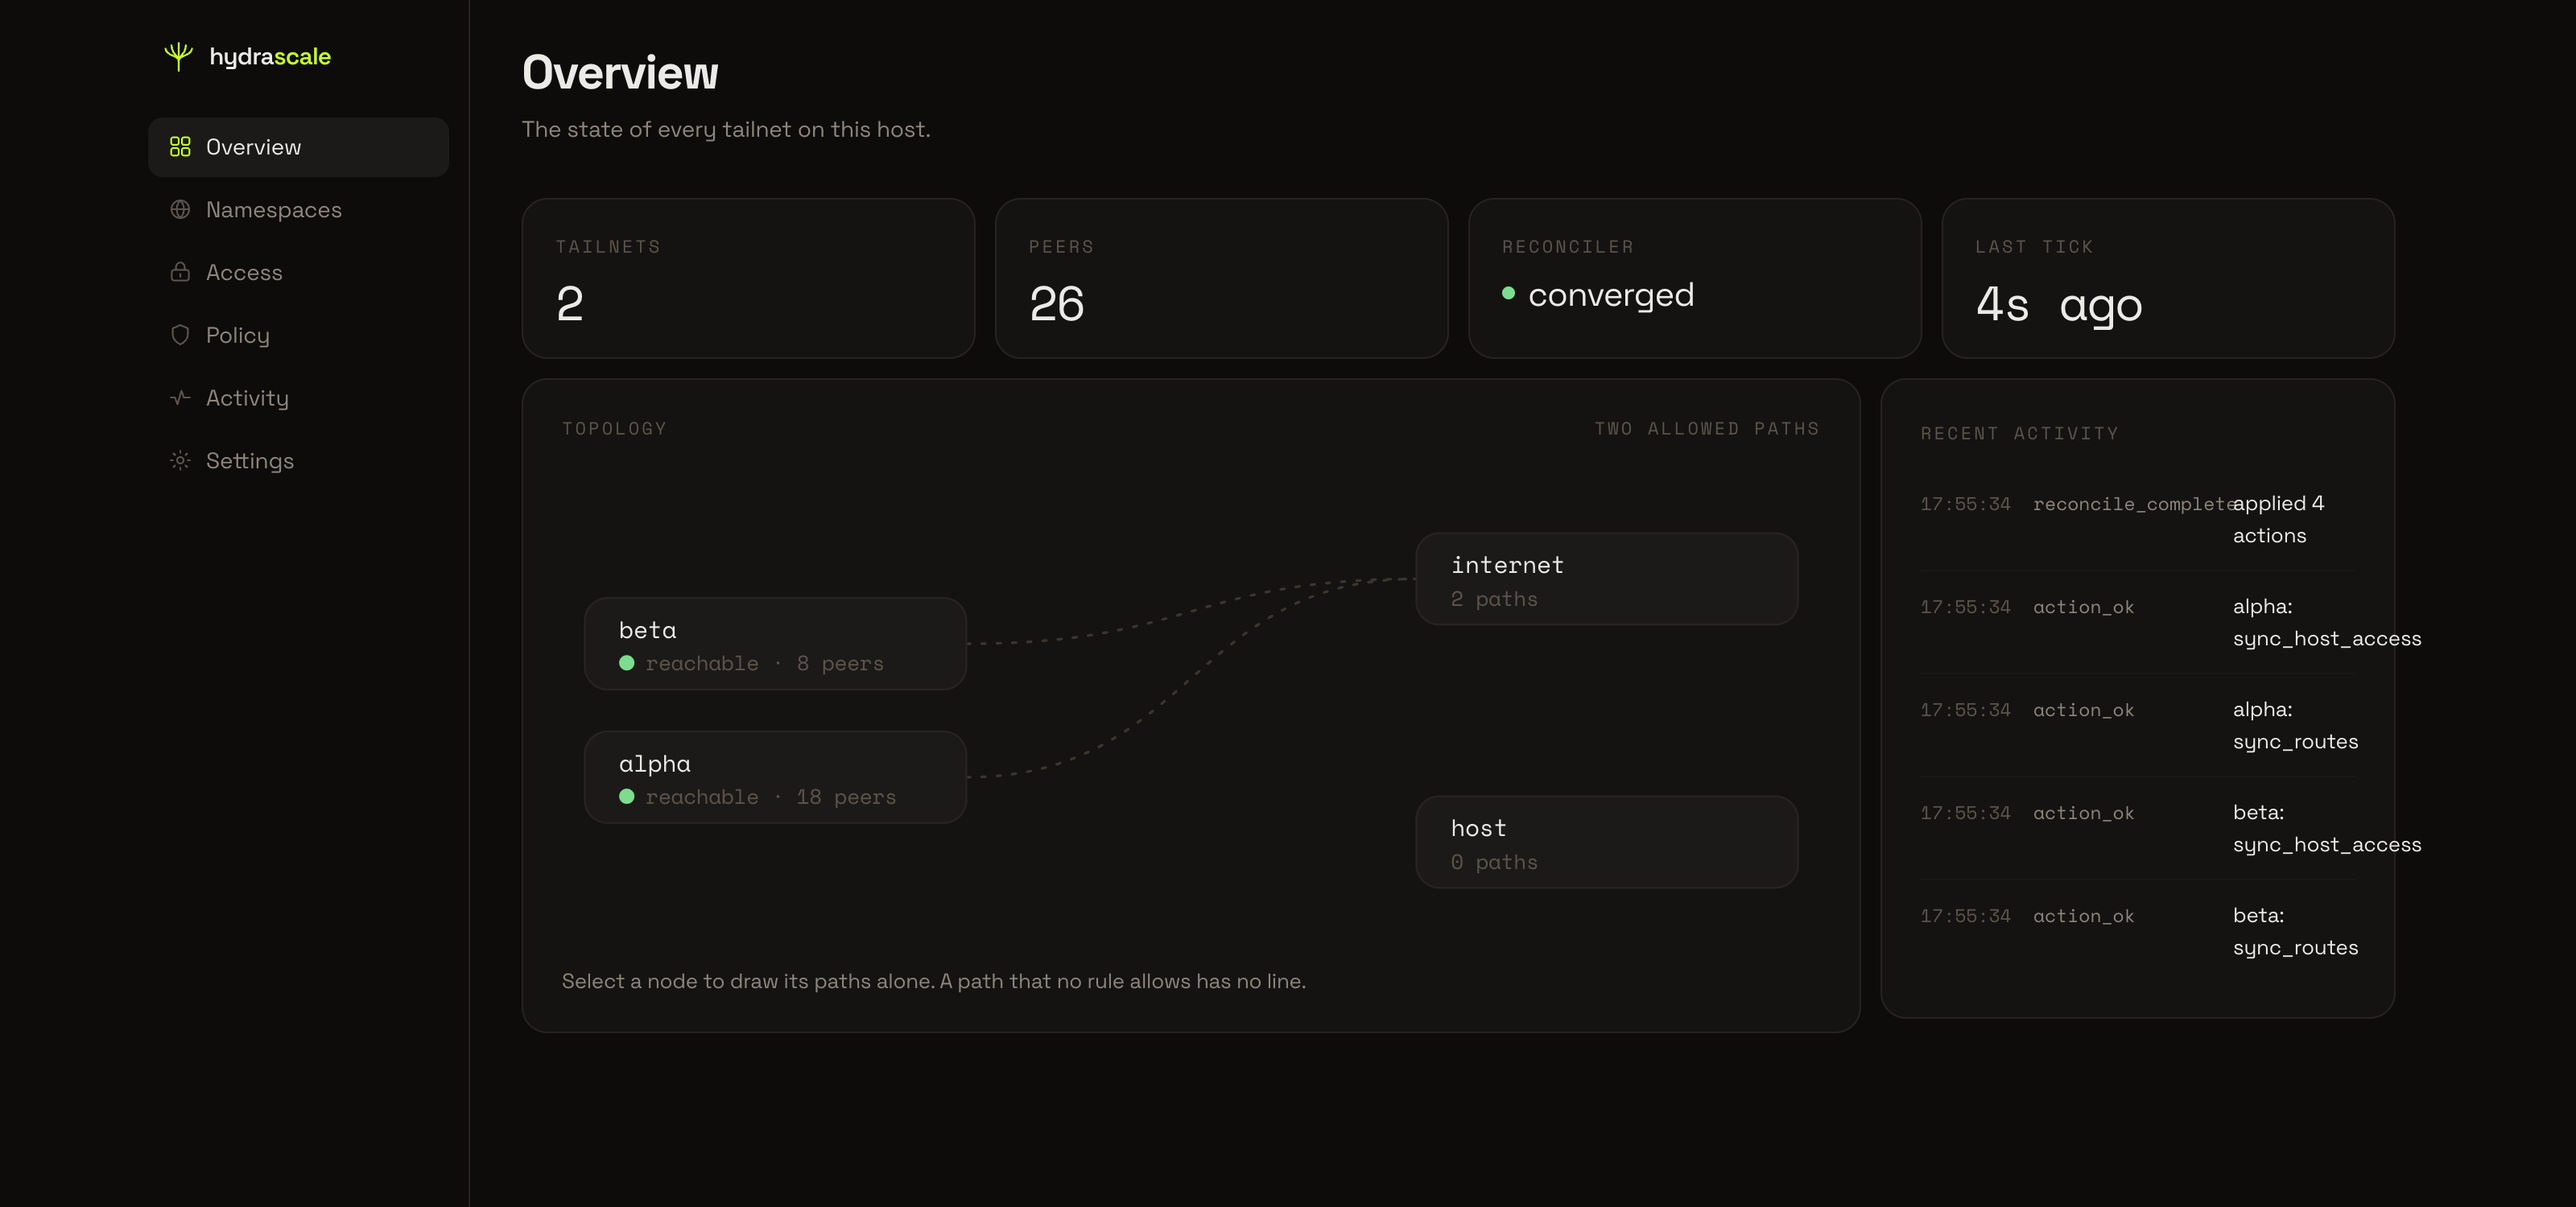
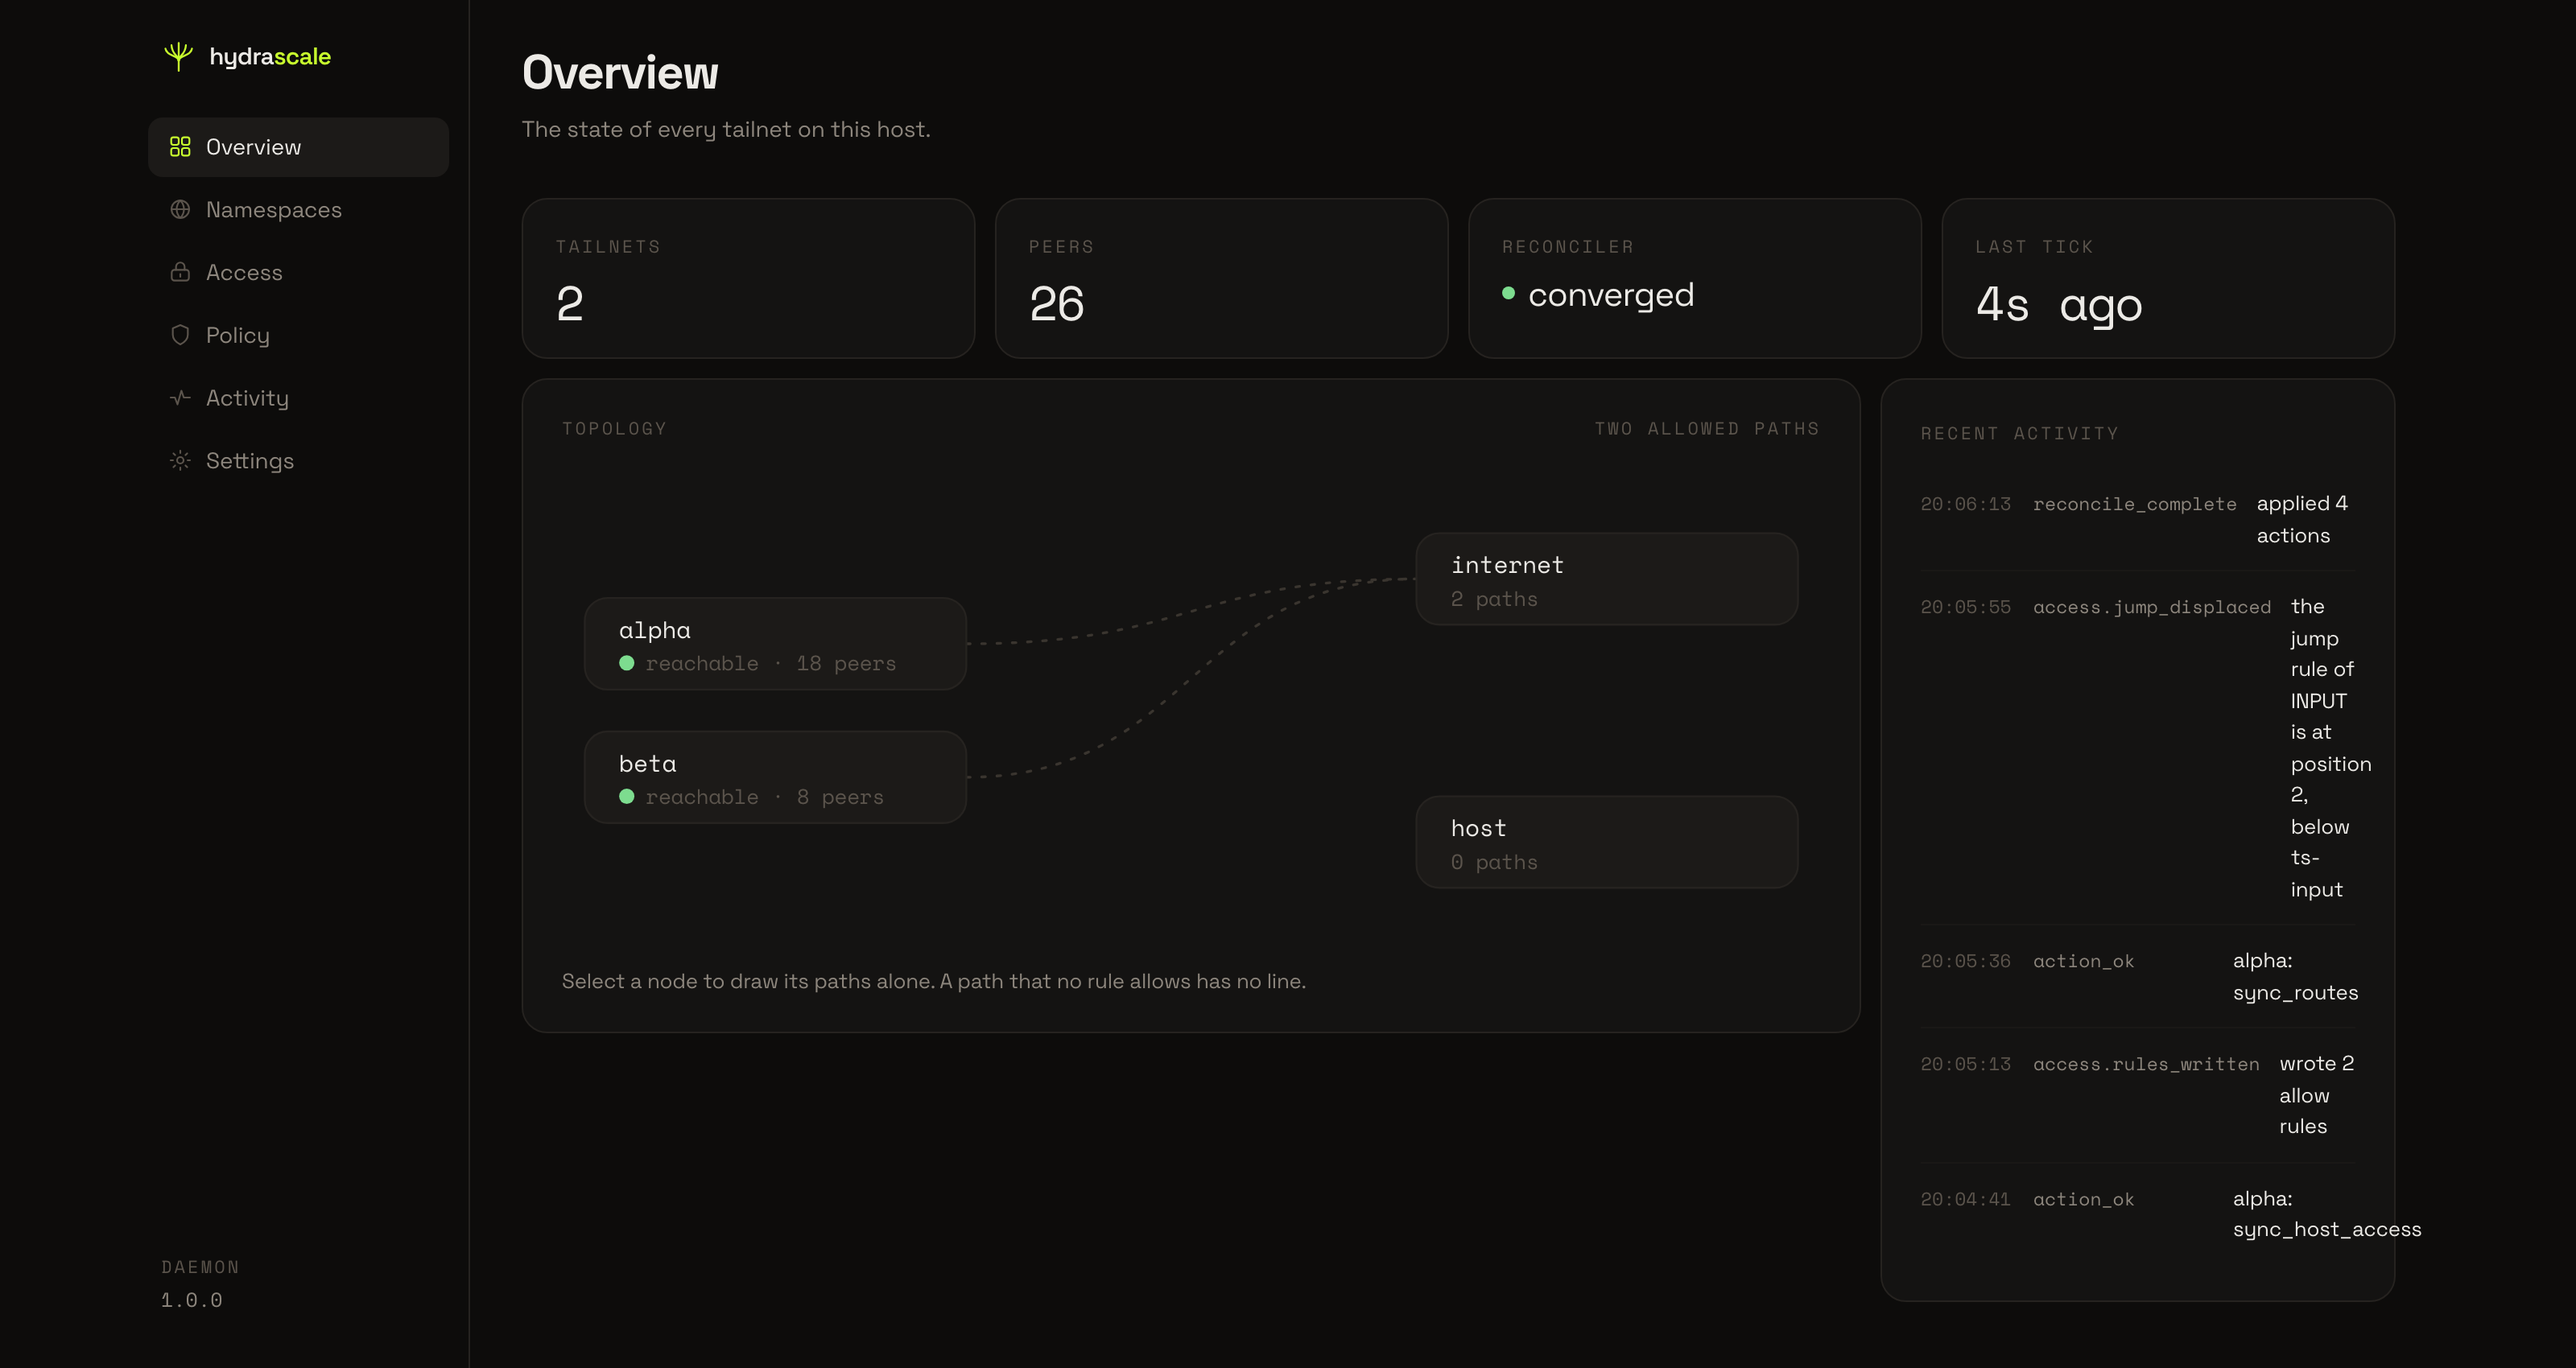
Retake the Overview screenshot of the README
The capture serves internal/ui/static from a local static server and fulfils
every /api/** request with a synthetic body, therefore no daemon runs and the
image holds no value of a real tailnet.

The event list holds access.jump_displaced, which is the longest type that the
daemon emits. The row draws the whole type with the message beside it, which is
the proof of the fix of issue #226.

The Overview view is the head image again, and console-access.png now appears
once, in the section Local rules.

diff --git a/docs/specs/spec.md b/docs/specs/spec.md
@@ -703,6 +703,7 @@ security and DNS work must not wait behind the console.
 | 2026-08-05 | 1 | Issue #231. **`TestTheConsoleJavaScriptTestsPass` now asserts the console test count, and no document records it.** Three files recorded 70 console JavaScript tests where the run reports 218. Each of the three was a comment, therefore the number drifted and nothing failed. The test now reads the summary line `ℹ pass <n>` of `node --test` and fails when the count falls below the constant `minimumConsoleJavaScriptTests`. The constant is a floor and not an exact count, so a new console test does not fail the build. A changed report format that hides the count fails the run as well. `CLAUDE.md` and `.github/workflows/ci.yml` now name no count. |
 | 2026-08-05 | 1 | Issue #223. **The reconciler writes the chains before the per-tailnet actions, and `refresh_dns` waits for no deadline inside a tick.** The shutdown removes both chains and the policy of the `FORWARD` chain is `DROP`, therefore a namespace reached no control server for the whole tick. `tailscaled` never reached the `Running` state, and the 60 second deadline of `RefreshDNSConfig` always expired, once for each tailnet. `internal/reconciler/reconciler.go` now runs `applyAccess` and `ensureForwardPath` in front of `Apply`. `daemon.Manager` carries `RefreshDNSConfigIfReady`, which reads the backend state one time and reports whether it refreshed. The reconciler keeps the action planned until the refresh runs, and it records the event `dns.refresh_waits` once for one wait. |
 | 2026-08-05 | 1 | Issue #236. The row of the Recent activity panel of the overview now wraps. `internal/ui/static/overview.js` writes the class `ev ev-stack` on the row, and `.ev-stack` in `internal/ui/static/app.css` carries `flex-wrap:wrap` with `flex:1 0 100%` on the message. The panel is 320 pixels wide, and a time of 58 pixels with the type `access.jump_displaced` of 148 pixels left the message 40 pixels. The message then wrapped to one word for each line, and the row measured 220 pixels. The time and the type now take the first line, and the message takes the whole width of the card below them. The message now measures 270 pixels and two lines, and the row measures 85 pixels. The activity view is wider and keeps the one-line row. `internal/ui/jstest/overview.test.mjs` holds the two tests. |
+| 2026-08-05 | 1 | Issue #230. **A console screenshot is captured from a static server and a synthetic API body, and no daemon runs.** The daemon does not build on macOS, therefore the capture serves `internal/ui/static` from a local static server and fulfils every `/api/**` request with a value that the capture itself writes. The image holds no value of a real tailnet by construction. Issue #211 rewrote the answer of a live daemon instead, which needs the test host and a tunnel. The Overview view is the head image of the README again, because issue #226 closed the defect that held it back. The event list of the capture holds `access.jump_displaced`, which is the longest type that the daemon emits, so the image is the proof of that fix. |
 
 ## Issue map
 

diff --git a/README.md b/README.md
@@ -14,10 +14,10 @@
 </p>
 
 <p align="center">
-  <img src="docs/images/console-access.png" alt="The Access view of the console. A dotted curve joins each tailnet to the internet node, a reachability matrix marks the two allowed paths, and the rule list holds one row per rule." width="900">
+  <img src="docs/images/console-overview.png" alt="The Overview view of the console. Four cards state the tailnet count, the peer count, the reconciler state, and the time of the last tick. A topology draws a dotted curve from each tailnet to the internet node, and the recent activity list holds one row per event." width="900">
 </p>
 
-<p align="center"><i>The Access view. A filled square and a drawn curve each mark an allowed path. A denied path has neither. The tailnet names are placeholders.</i></p>
+<p align="center"><i>The Overview view. The topology draws one dotted curve per allowed path, and the activity list states the time, the type, and the message of each event. The tailnet names are placeholders.</i></p>
 
 Hydrascale lets one Linux host join several Tailscale tailnets at the same time. It is for
 the operator who administers a host that must reach a work tailnet, a home tailnet, and a
